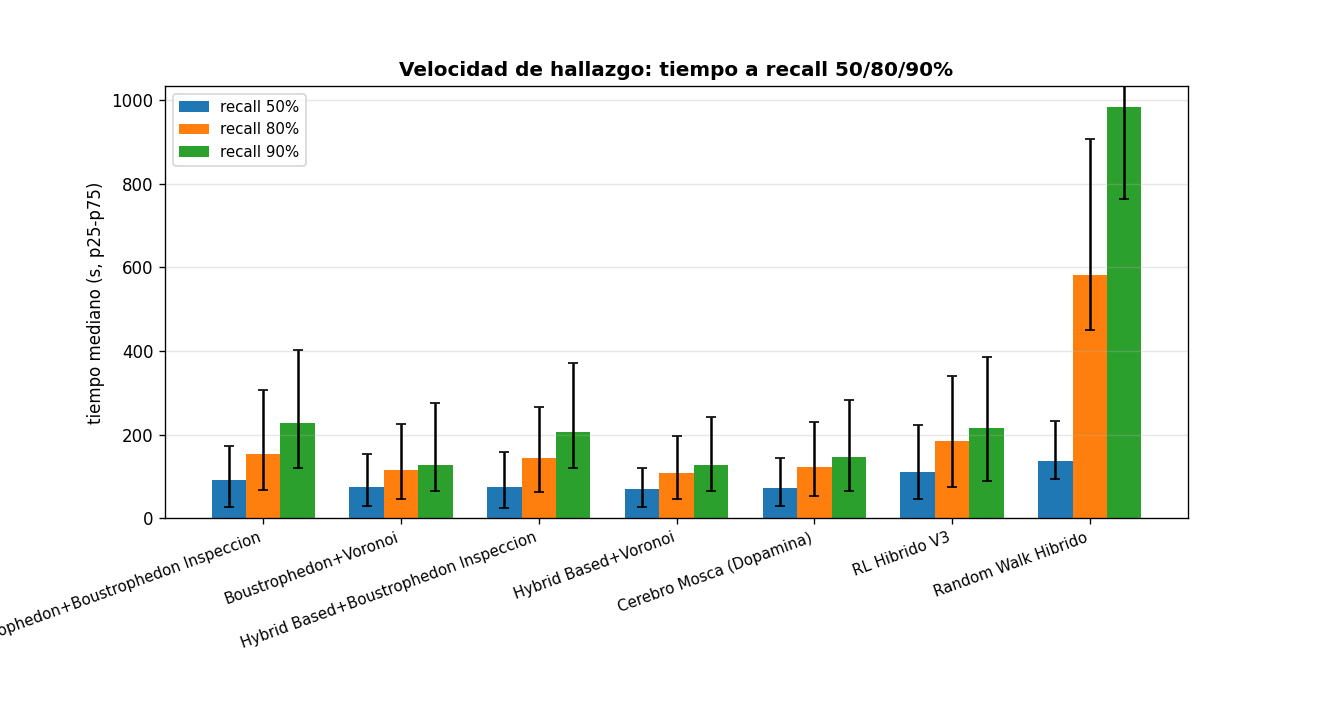
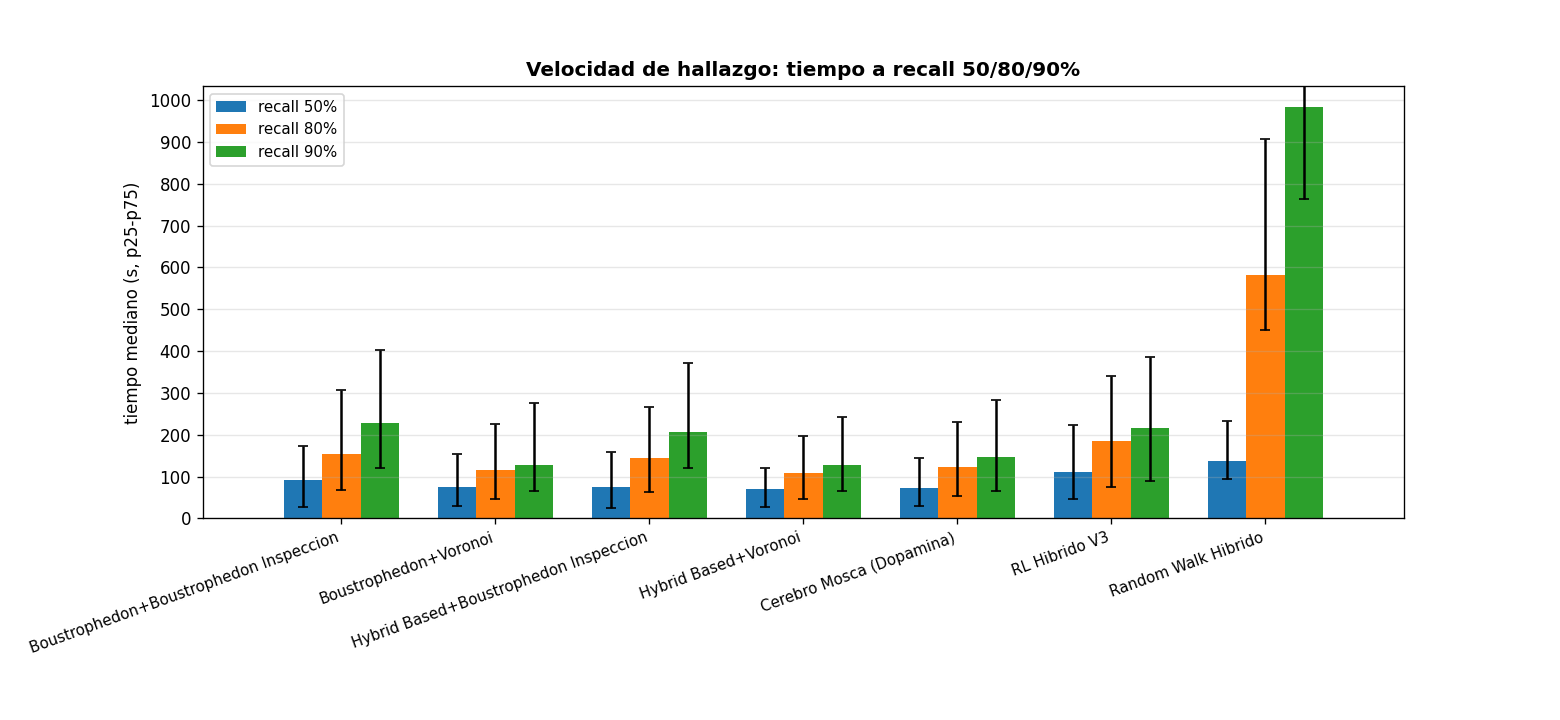
feat: tiempo_a_recall con ticks cada 100 y barras de error sin clip

diff --git a/graficar_generalista.py b/graficar_generalista.py
@@ -201,7 +201,7 @@ def main():
     plt.close(fig)
 
     # ---- Tiempo mediano a recall 50/80/90% por estrategia ----
-    fig, ax = plt.subplots(figsize=(11, 6))
+    fig, ax = plt.subplots(figsize=(13, 6))
     xs = np.arange(len(configs))
     for j, u in enumerate((50, 80, 90)):
         ms, ls, hs = [], [], []
@@ -216,6 +216,7 @@ def main():
                capsize=3, label=f"recall {u}%")
     ax.set_xticks(xs, [labs[c] for c in configs], fontsize=9,
                   rotation=20, ha="right")
+    ax.set_xlim(-0.9, len(xs) - 0.1)
     ax.set_ylabel("tiempo mediano (s, p25-p75)")
     ax.set_title("Velocidad de hallazgo: tiempo a recall 50/80/90%",
                  fontweight="bold")
@@ -224,10 +225,11 @@ def main():
     ymax = float(np.nanmax([np.nanmedian(v) for vs in t_recall.values()
                             for v in vs.values()]))
     ax.set_ylim(0, 1.05 * ymax)
+    ax.set_yticks(np.arange(0, 1.05 * ymax + 1, 100))
     for ln in ax.lines:  # barras de error visibles aun fuera del eje
         ln.set_clip_on(False)
     fig.tight_layout()
-    fig.subplots_adjust(bottom=0.28)
+    fig.subplots_adjust(bottom=0.28, left=0.13)
     fig.savefig(os.path.join(OUT, "tiempo_a_recall.png"), dpi=120)
     plt.close(fig)
 
